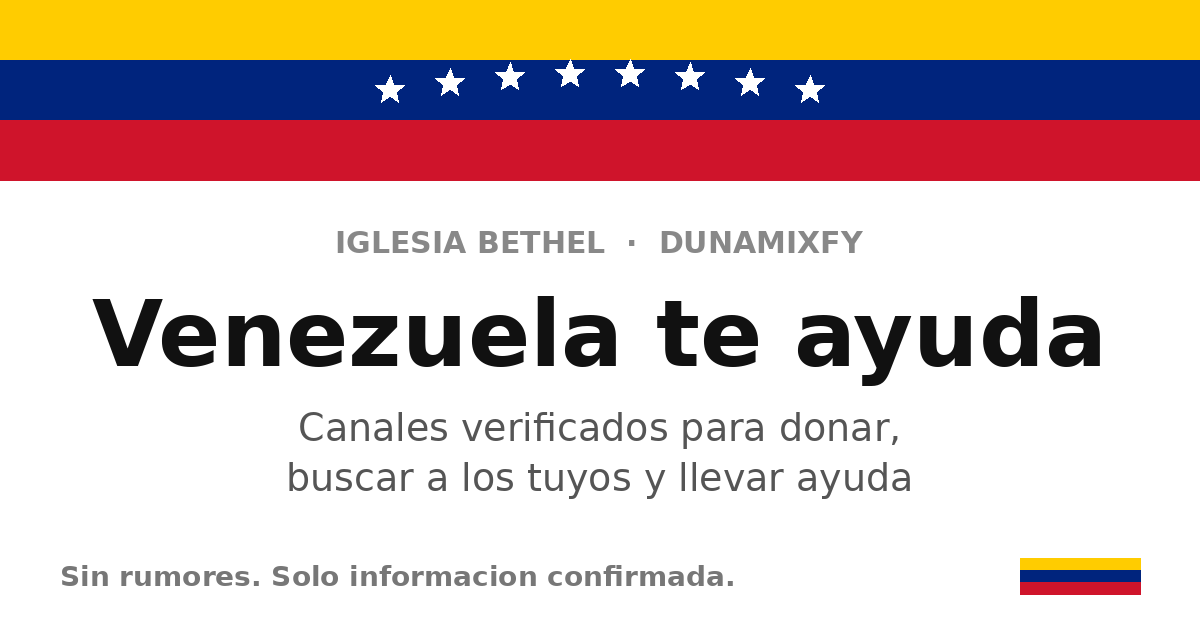
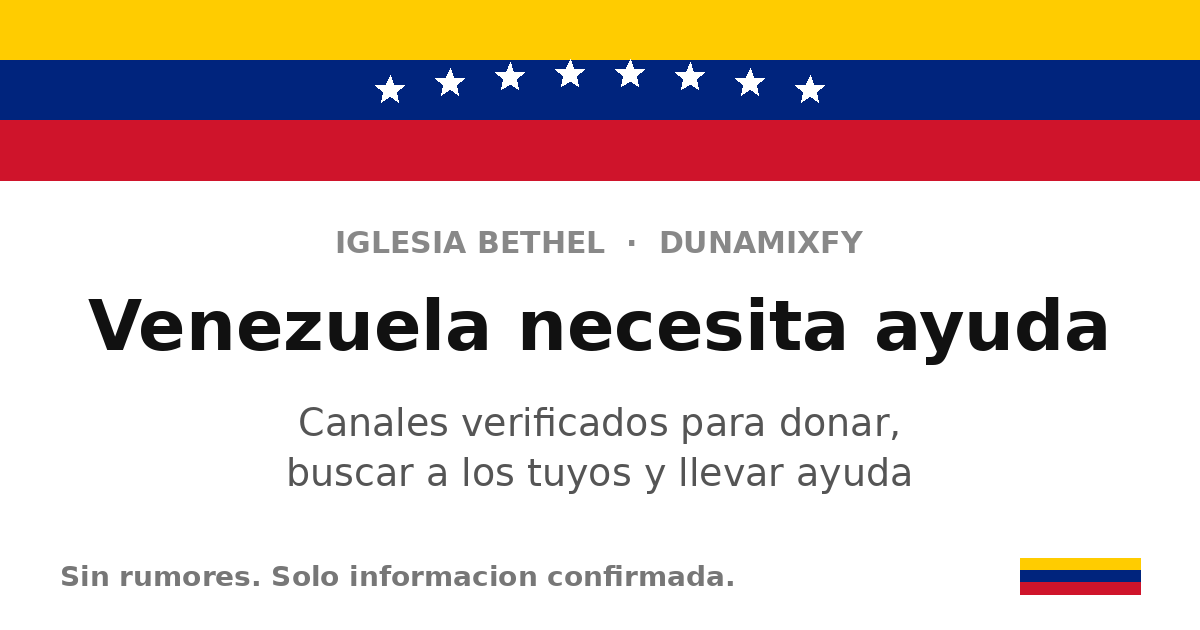
Cambiar titulo a Venezuela necesita ayuda (pagina, metadatos e imagen)

Changed region(s): [[0.0617, 0.4524, 0.925, 0.7841]]

diff --git a/app/ayuda-venezuela/layout.tsx b/app/ayuda-venezuela/layout.tsx
@@ -1,10 +1,10 @@
 import type { Metadata } from "next";
 
 export const metadata: Metadata = {
-  title: "Venezuela te ayuda",
+  title: "Venezuela necesita ayuda",
   description: "Canales verificados para donar, buscar a los tuyos y llevar ayuda. Sin rumores.",
   openGraph: {
-    title: "Venezuela te ayuda",
+    title: "Venezuela necesita ayuda",
     description: "Canales verificados para donar, buscar a los tuyos y llevar ayuda. Sin rumores.",
     images: ["/og-image.png"],
     type: "website",
@@ -14,3 +14,4 @@ export const metadata: Metadata = {
 export default function Layout({ children }: { children: React.ReactNode }) {
   return children;
 }
+

diff --git a/app/ayuda-venezuela/page.tsx b/app/ayuda-venezuela/page.tsx
@@ -79,7 +79,7 @@ export default function AyudaVenezuela() {
           <p className="text-[11px] font-medium tracking-wide text-neutral-500">
             IGLESIA BETHEL - DUNAMIXFY
           </p>
-          <h1 className="mt-1.5 text-2xl font-medium">Venezuela te ayuda</h1>
+          <h1 className="mt-1.5 text-2xl font-medium">Venezuela necesita ayuda</h1>
           <p className="mt-1 text-sm leading-relaxed text-neutral-600">
             Canales verificados para donar, buscar a los tuyos y llevar ayuda.
             Sin rumores.
@@ -327,5 +327,6 @@ export default function AyudaVenezuela() {
     </main>
   );
 }
+
 
 
